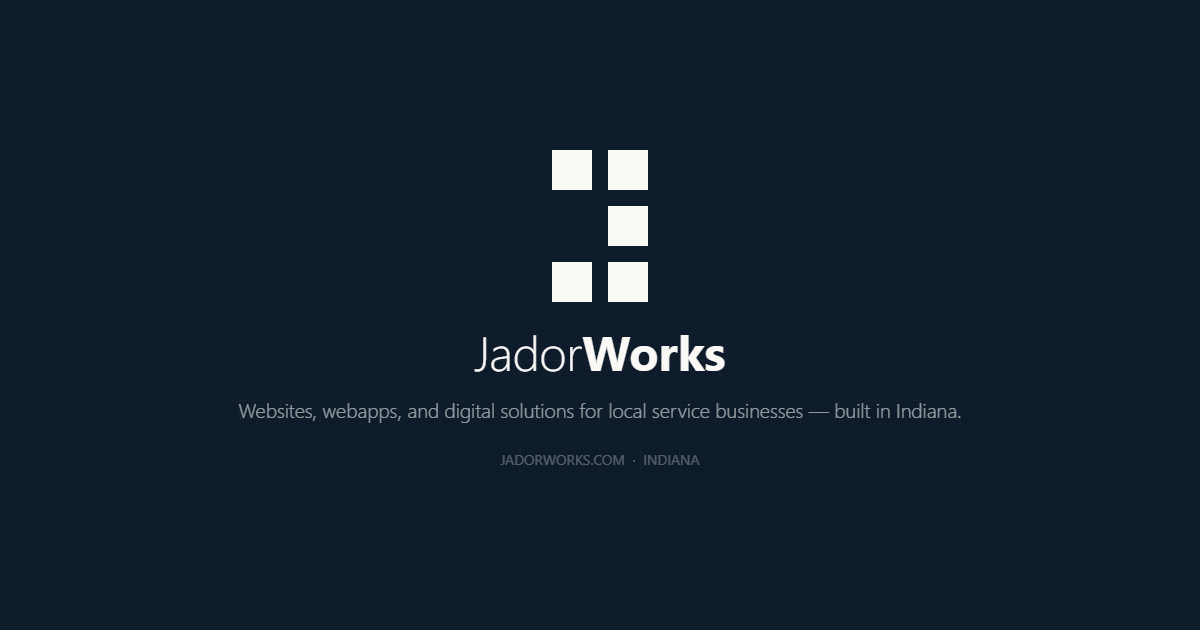
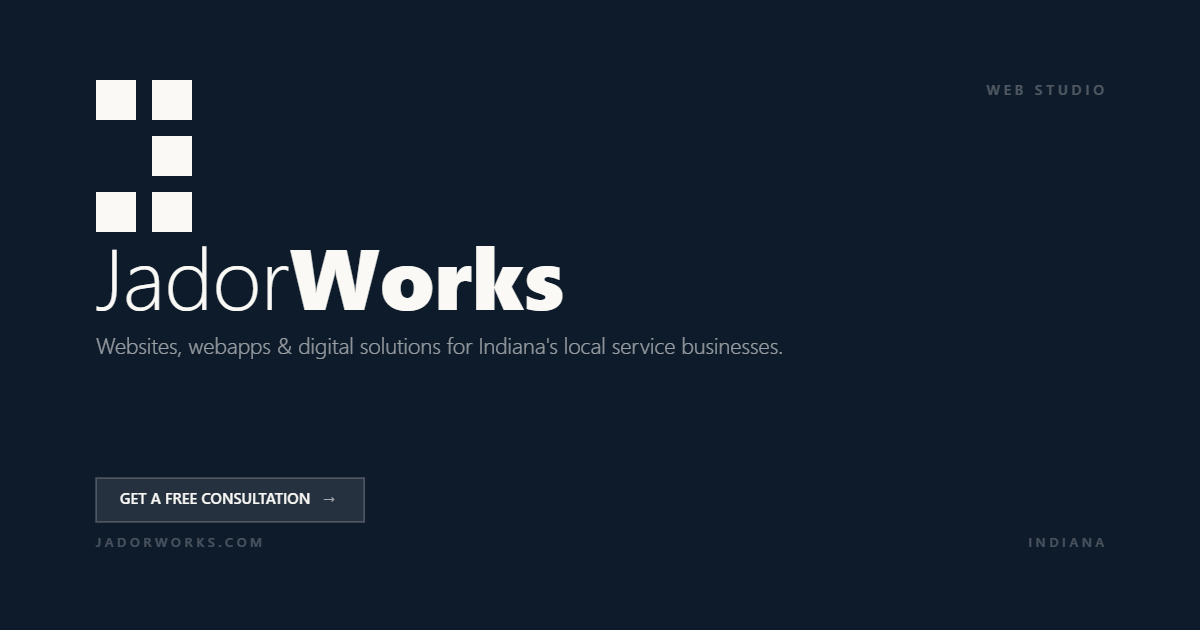
Upgrade OG image to v3 with CTA pill and structured layout
- Replace centered brand-card OG route with structured 3-row layout:
  top (Pixel J mark + "Web Studio"), middle (wordmark + headline),
  bottom (CTA pill + URL + location)
- Add "Get a Free Consultation →" CTA pill for click intent
- Regenerate static og-image.png to match v3 design
- Addresses opengraph.xyz "missing call-to-action" advisory

diff --git a/src/app/og/route.tsx b/src/app/og/route.tsx
@@ -7,101 +7,80 @@ export async function GET() {
     (
       <div
         style={{
-          width: "100%",
-          height: "100%",
+          width: "1200px",
+          height: "630px",
+          background: "#0D1B2A",
           display: "flex",
           flexDirection: "column",
-          justifyContent: "center",
-          alignItems: "center",
-          backgroundColor: "#0D1B2A",
-          padding: "60px",
+          alignItems: "flex-start",
+          justifyContent: "space-between",
+          padding: "80px 96px",
+          fontFamily: "Inter, sans-serif",
           position: "relative",
         }}
       >
-        {/* Subtle grid texture */}
-        <div
-          style={{
-            position: "absolute",
-            top: 0,
-            left: 0,
-            right: 0,
-            bottom: 0,
-            opacity: 0.04,
-            backgroundImage:
-              "linear-gradient(rgba(250,249,246,1) 1px, transparent 1px), linear-gradient(90deg, rgba(250,249,246,1) 1px, transparent 1px)",
-            backgroundSize: "40px 40px",
-            display: "flex",
-          }}
-        />
+        {/* Top row — Pixel J mark + label */}
+        <div style={{ display: "flex", justifyContent: "space-between", width: "100%", alignItems: "flex-start" }}>
 
-        {/* Pixel J Mark — correct 2-column, 5-square construction */}
-        <div style={{ display: "flex", gap: "16px", marginBottom: "32px" }}>
-          {/* Left column — top filled, middle empty, bottom filled */}
-          <div style={{ display: "flex", flexDirection: "column", gap: "16px" }}>
-            <div style={{ width: 40, height: 40, background: "#FAF9F6", display: "flex" }} />
-            <div style={{ width: 40, height: 40, background: "transparent", display: "flex" }} />
-            <div style={{ width: 40, height: 40, background: "#FAF9F6", display: "flex" }} />
+          {/* Pixel J Mark — correct construction */}
+          <div style={{ display: "flex", gap: "16px" }}>
+            {/* Left column — top filled, middle empty, bottom filled */}
+            <div style={{ display: "flex", flexDirection: "column", gap: "16px" }}>
+              <div style={{ width: 40, height: 40, background: "#FAF9F6" }} />
+              <div style={{ width: 40, height: 40, background: "transparent" }} />
+              <div style={{ width: 40, height: 40, background: "#FAF9F6" }} />
+            </div>
+            {/* Right column — all three filled */}
+            <div style={{ display: "flex", flexDirection: "column", gap: "16px" }}>
+              <div style={{ width: 40, height: 40, background: "#FAF9F6" }} />
+              <div style={{ width: 40, height: 40, background: "#FAF9F6" }} />
+              <div style={{ width: 40, height: 40, background: "#FAF9F6" }} />
+            </div>
           </div>
-          {/* Right column — all three filled */}
-          <div style={{ display: "flex", flexDirection: "column", gap: "16px" }}>
-            <div style={{ width: 40, height: 40, background: "#FAF9F6", display: "flex" }} />
-            <div style={{ width: 40, height: 40, background: "#FAF9F6", display: "flex" }} />
-            <div style={{ width: 40, height: 40, background: "#FAF9F6", display: "flex" }} />
+
+          <span style={{ fontSize: 14, fontWeight: 500, color: "rgba(250,249,246,0.28)", letterSpacing: "3px", textTransform: "uppercase" as const }}>
+            Web Studio
+          </span>
+        </div>
+
+        {/* Middle — wordmark + headline */}
+        <div style={{ display: "flex", flexDirection: "column", gap: "16px" }}>
+          <div style={{ display: "flex", alignItems: "baseline" }}>
+            <span style={{ fontSize: 86, fontWeight: 200, color: "#FAF9F6", letterSpacing: "-3px", lineHeight: 1 }}>Jador</span>
+            <span style={{ fontSize: 86, fontWeight: 800, color: "#FAF9F6", letterSpacing: "-3px", lineHeight: 1 }}>Works</span>
           </div>
+          <span style={{ fontSize: 22, fontWeight: 300, color: "rgba(250,249,246,0.6)", maxWidth: "700px", lineHeight: 1.5 }}>
+            Websites, webapps &amp; digital solutions for Indiana&apos;s local service businesses.
+          </span>
         </div>
 
-        {/* Wordmark */}
-        <div
-          style={{
-            display: "flex",
-            fontSize: "48px",
-            color: "#FAF9F6",
-            letterSpacing: "-0.02em",
-            marginBottom: "16px",
-          }}
-        >
-          <span style={{ fontWeight: 300 }}>Jador</span>
-          <span style={{ fontWeight: 700 }}>Works</span>
-        </div>
-
-        {/* Tagline */}
-        <div
-          style={{
-            display: "flex",
-            fontSize: "20px",
-            color: "rgba(250,249,246,0.6)",
-            fontWeight: 300,
-            textAlign: "center",
-            maxWidth: "700px",
-            lineHeight: 1.5,
-          }}
-        >
-          Websites, webapps, and digital solutions for local service businesses — built in Indiana.
-        </div>
-
-        {/* URL + Location */}
-        <div
-          style={{
-            display: "flex",
-            alignItems: "center",
-            gap: "16px",
-            marginTop: "40px",
-            fontSize: "14px",
-            color: "rgba(250,249,246,0.3)",
-            fontWeight: 400,
-            letterSpacing: "0.1em",
-            textTransform: "uppercase",
-          }}
-        >
-          <span style={{ display: "flex" }}>jadorworks.com</span>
-          <span style={{ display: "flex" }}>·</span>
-          <span style={{ display: "flex" }}>Indiana</span>
+        {/* Bottom row — CTA + URL + Indiana */}
+        <div style={{ display: "flex", justifyContent: "space-between", width: "100%", alignItems: "flex-end" }}>
+          <div style={{ display: "flex", flexDirection: "column", gap: "12px" }}>
+            {/* CTA pill */}
+            <div style={{
+              display: "flex",
+              alignItems: "center",
+              gap: "12px",
+              background: "rgba(250,249,246,0.10)",
+              border: "1.5px solid rgba(250,249,246,0.25)",
+              padding: "12px 24px",
+            }}>
+              <span style={{ fontSize: 15, fontWeight: 600, color: "#FAF9F6", letterSpacing: "2px", textTransform: "uppercase" as const }}>
+                Get a Free Consultation
+              </span>
+              <span style={{ fontSize: 15, color: "rgba(250,249,246,0.6)" }}>→</span>
+            </div>
+            <span style={{ fontSize: 13, fontWeight: 500, color: "rgba(250,249,246,0.25)", letterSpacing: "3px", textTransform: "uppercase" as const }}>
+              jadorworks.com
+            </span>
+          </div>
+          <span style={{ fontSize: 13, fontWeight: 500, color: "rgba(250,249,246,0.25)", letterSpacing: "3px", textTransform: "uppercase" as const }}>
+            Indiana
+          </span>
         </div>
       </div>
     ),
-    {
-      width: 1200,
-      height: 630,
-    }
+    { width: 1200, height: 630 }
   );
 }
